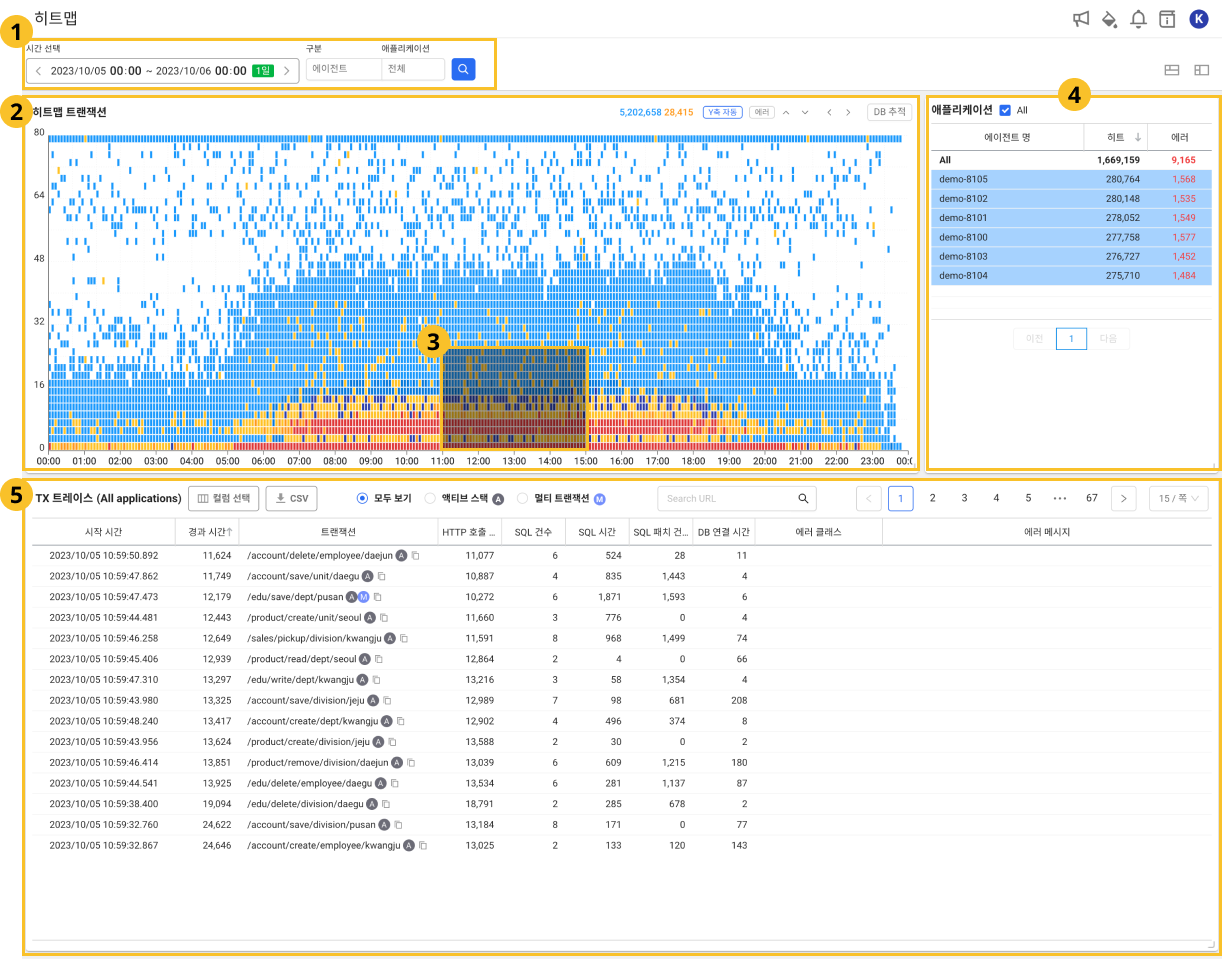
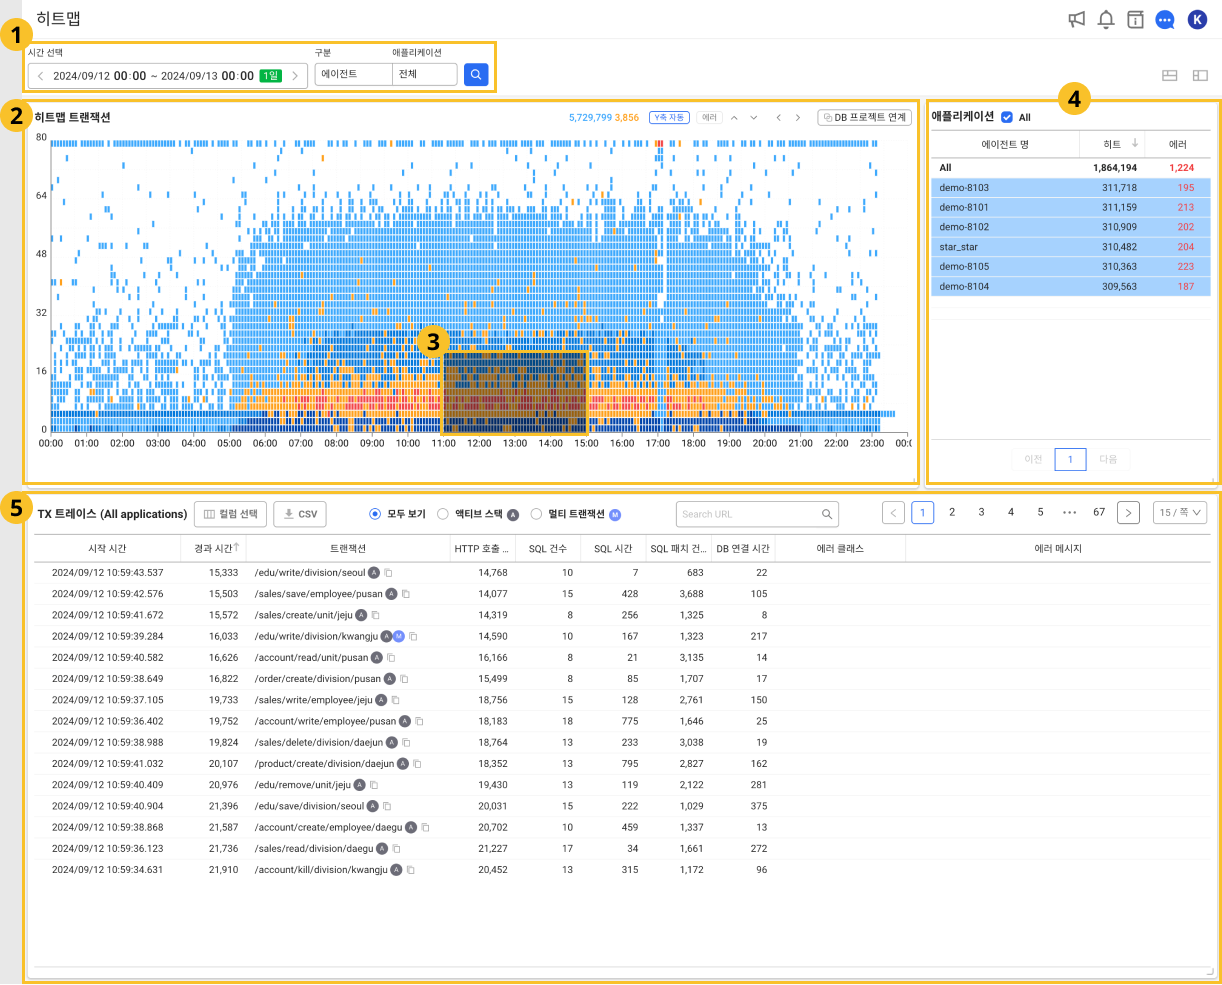
update images & sidebars

diff --git a/sidebars.js b/sidebars.js
@@ -518,6 +518,7 @@ const sidebars = {
               ],
             },
             'php/instance-performance-analysis',
+            'php/linked-projects',
             {
               type: 'doc',
               label: 'Log 모니터링',
@@ -749,6 +750,7 @@ const sidebars = {
               ],
             },
             'nodejs/instance-performance-analysis',
+            'nodejs/linked-projects',
             {
               type: 'doc',
               label: 'Log 모니터링',
@@ -982,6 +984,7 @@ const sidebars = {
               ],
             },
             'python/instance-performance-analysis',
+            'python/linked-projects',
             {
               type: 'doc',
               label: 'Log 모니터링',
@@ -1214,6 +1217,7 @@ const sidebars = {
               ],
             },
             'dotnet/instance-performance-analysis',
+            'dotnet/linked-projects',
             'dotnet/labs'
           ],
         },
@@ -1430,6 +1434,7 @@ const sidebars = {
               ],
             },
             'golang/instance-performance-analysis',
+            'golang/linked-projects',
             {
               type: 'doc',
               label: 'Log 모니터링',
